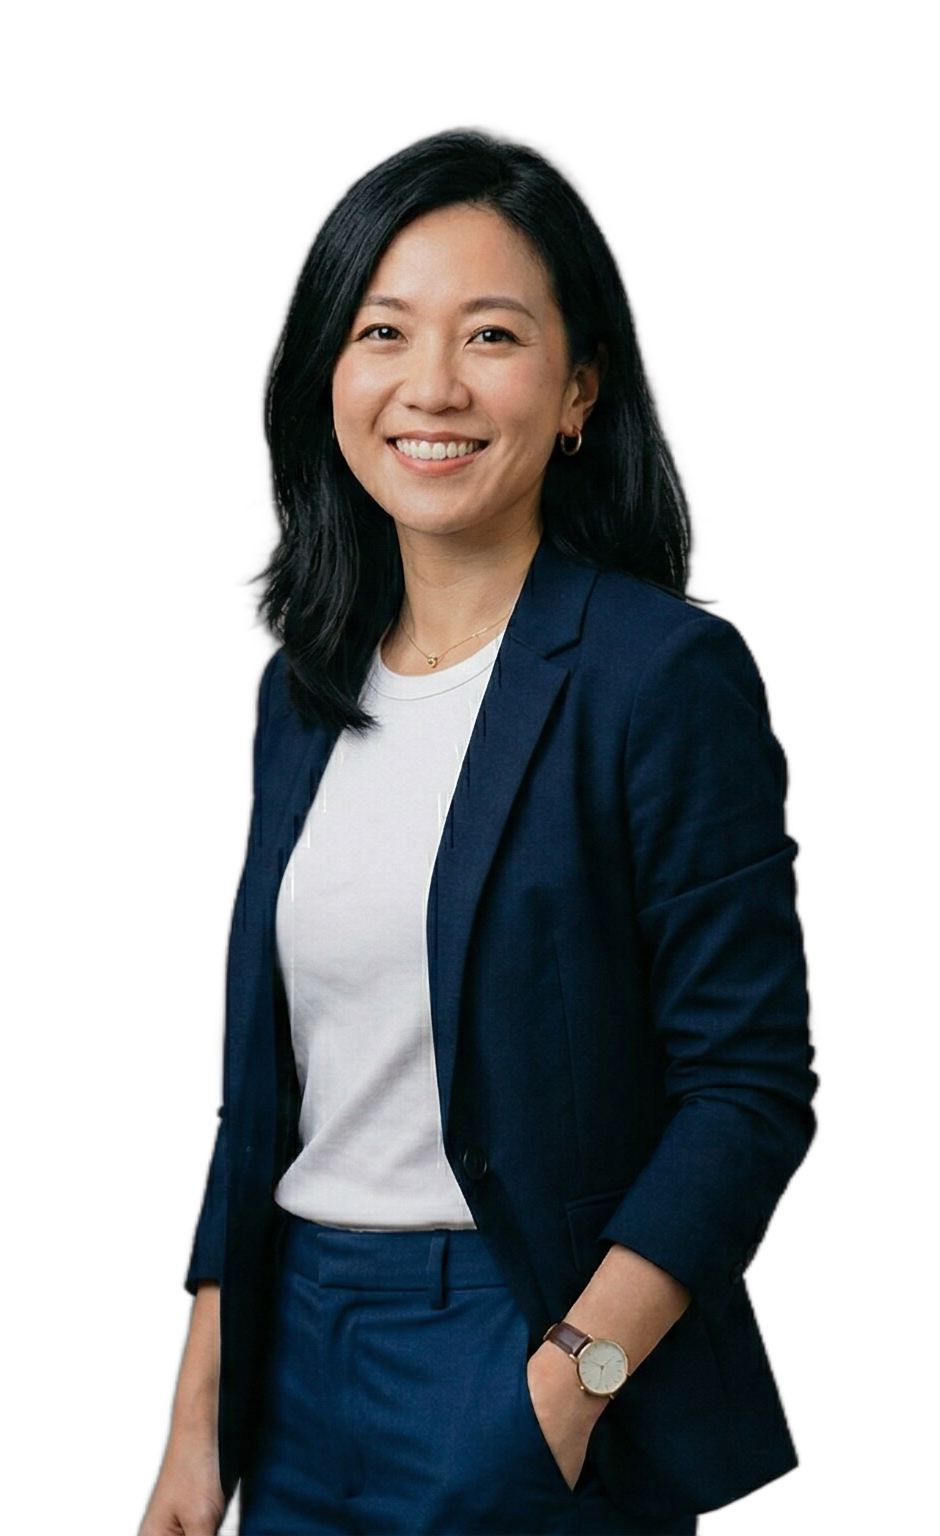
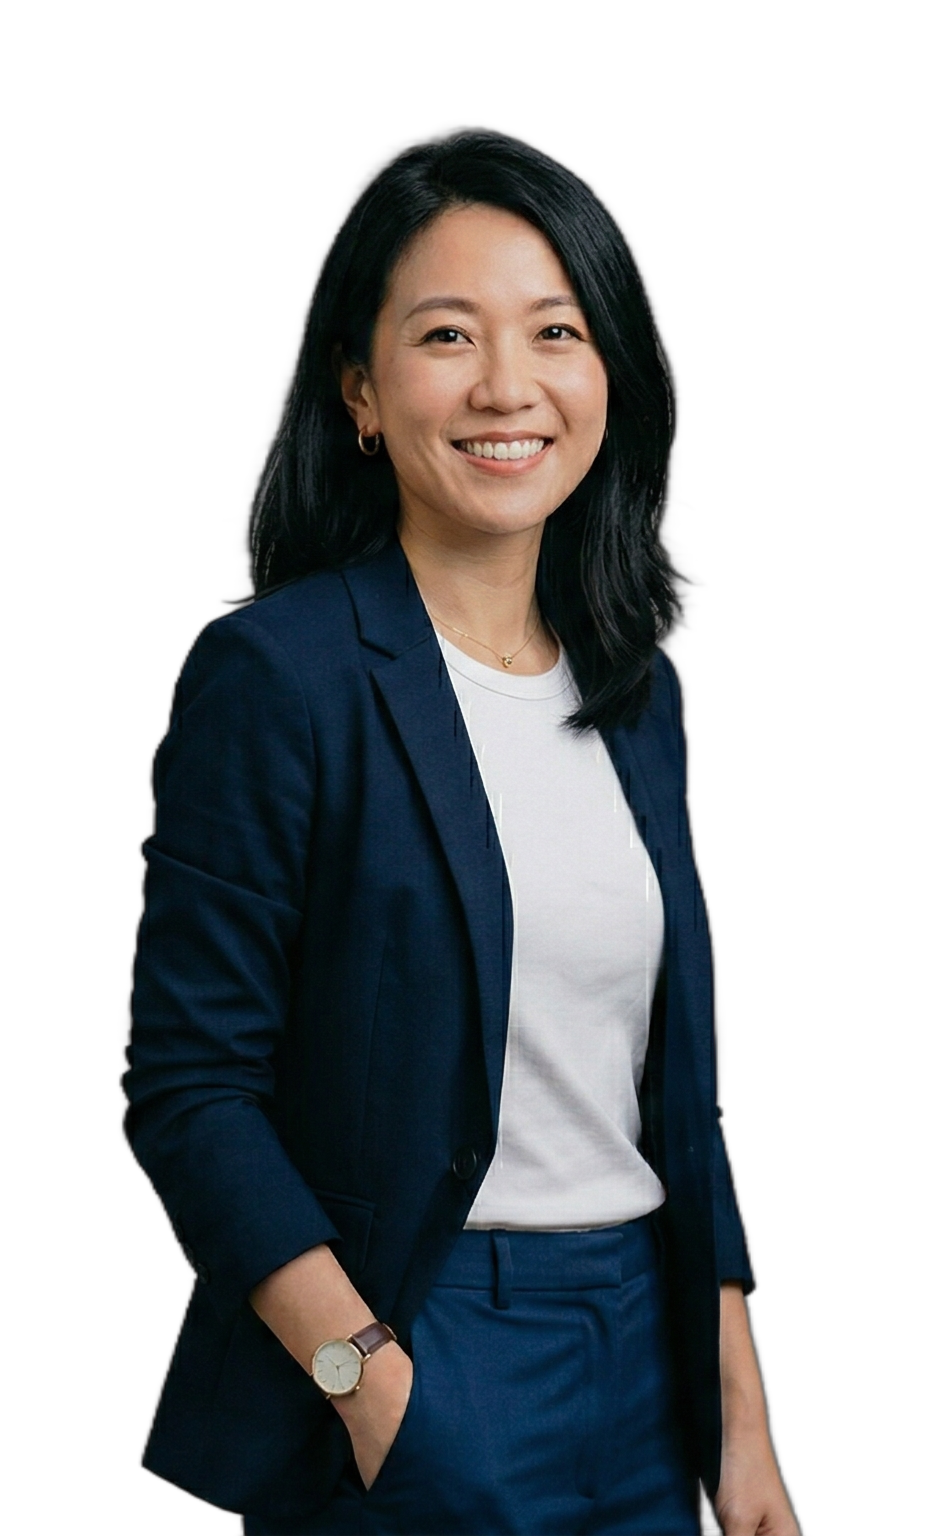
contact

diff --git a/pages/contact.html b/pages/contact.html
@@ -11,8 +11,6 @@
   <link rel="preconnect" href="https://fonts.gstatic.com" crossorigin />
   <link rel="stylesheet" href="../css/style.css" />
   <link rel="icon" href="../assets/favicon.ico" />
-  
-  <script defer data-domain="superholiclab.com" src="https://plausible.io/js/script.js"></script>
 
   <script type="module">
     import { guardPage } from '/js/auth.js';
@@ -71,9 +69,8 @@
 
     <!-- Left Column: The Face of Trust -->
     <div class="flex-1 flex flex-col gap-6" style="min-width: 300px; max-width: 400px;">
-      <!-- Image includes an Unsplash fallback just in case the local asset isn't uploaded yet -->
-      <img src="../assets/images/linzy_support.png" alt="Linzy, Superholic Lab Support" style="width: 100%; border-radius: var(--radius-lg); box-shadow: var(--shadow-md); object-fit: cover; aspect-ratio: 4/3;" onerror="this.src='https://images.unsplash.com/photo-1573496359142-b8d87734a5a2?auto=format&fit=crop&q=80&w=800&h=600';">
-      
+      <!-- Full transparent image with drop shadow -->
+      <img src="../assets/images/linzy_support.png" alt="Linzy, Superholic Lab Support" style="width: 100%; height: auto; filter: drop-shadow(0 12px 24px rgba(0,0,0,0.15)); display: block; margin: 0 auto;">
 
       <div class="flex flex-col gap-4 mt-2">
         <div class="flex items-center gap-4 card p-4" style="background: transparent; border: 1px solid var(--border-light); box-shadow: none;">
